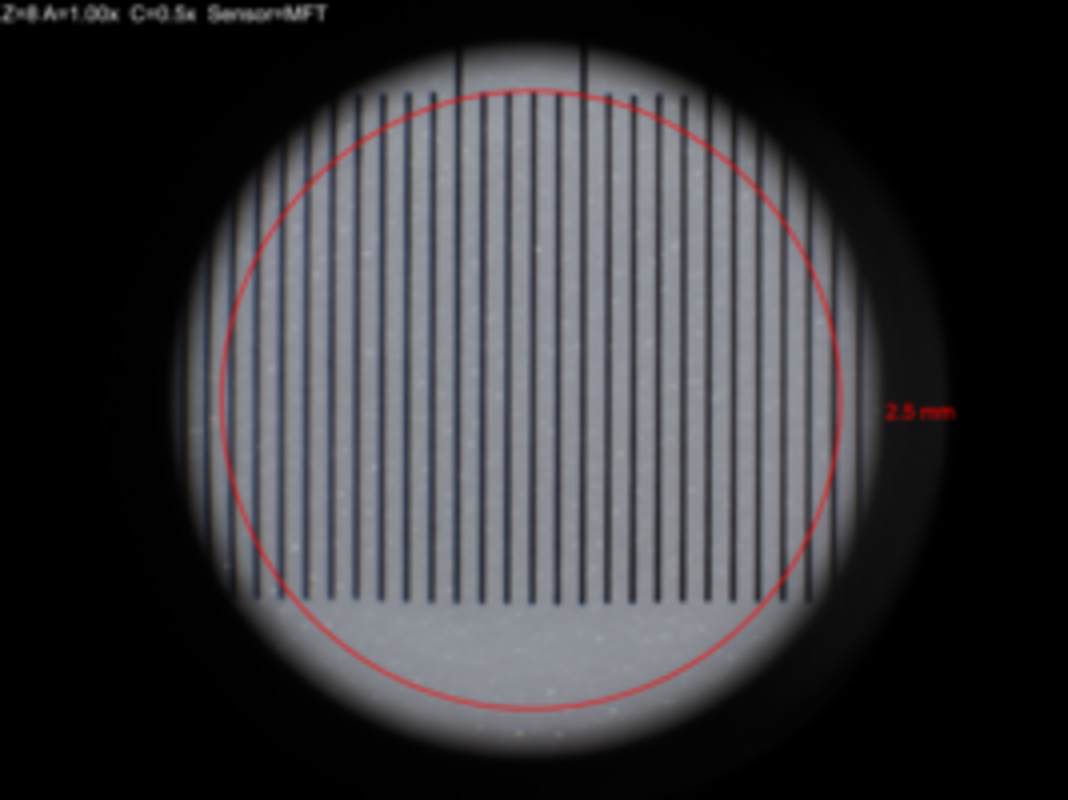
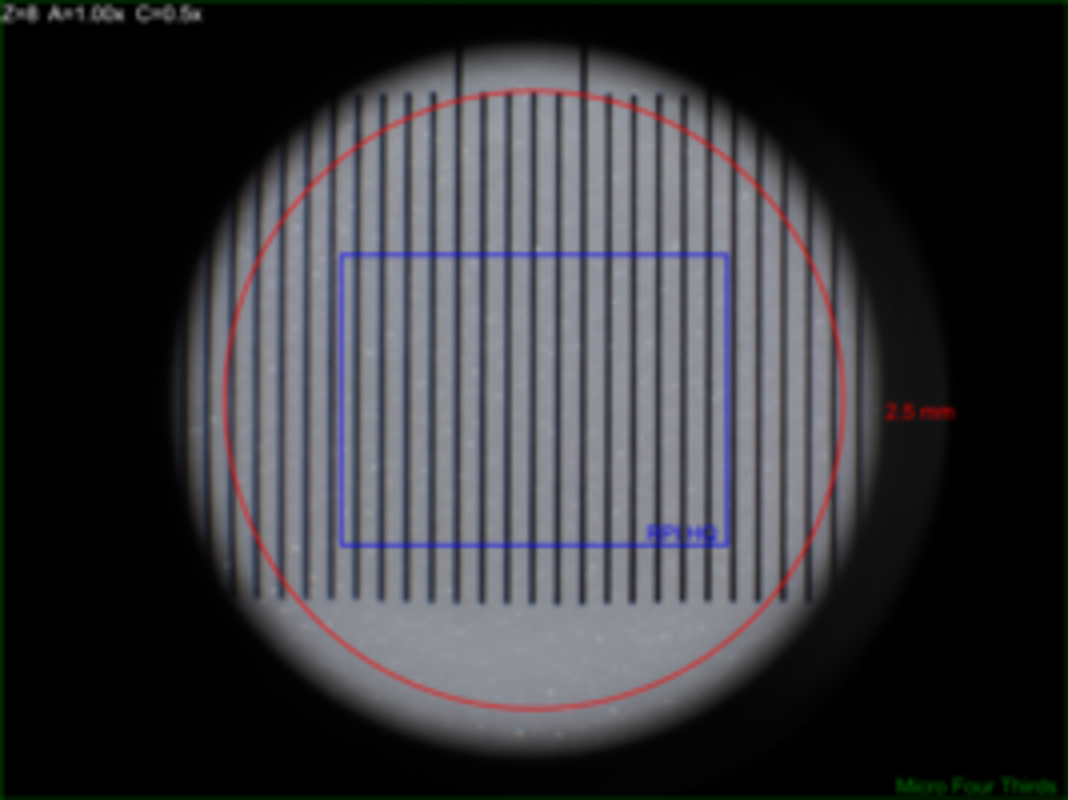
Added 0.32x pics

diff --git a/docs/leicaS8apo.html b/docs/leicaS8apo.html
@@ -3,7 +3,7 @@
 "http://www.w3.org/TR/xhtml1/DTD/xhtml1-strict.dtd">
 <html xmlns="http://www.w3.org/1999/xhtml" lang="en" xml:lang="en">
 <head>
-<!-- 2021-11-02 Tue 17:12 -->
+<!-- 2021-11-05 Fri 16:19 -->
 <meta http-equiv="Content-Type" content="text/html;charset=utf-8" />
 <meta name="viewport" content="width=1024, initial-scale=1" />
 <title>Leica S4E &amp; S8APO</title>
@@ -252,7 +252,7 @@
 
 <tr>
 <td class="org-right"><b>Updated:</b></td>
-<td class="org-left"><i>2021-11-02</i></td>
+<td class="org-left"><i>2021-11-05</i></td>
 </tr>
 </tbody>
 </table>
@@ -264,7 +264,7 @@ Copyright 2021 Mitch Richling. All rights reserved.
 <h2>Table of Contents</h2>
 <div id="text-table-of-contents">
 <ul>
-<li><a href="#orga7c4a99">1. Symbols &amp; Formulas</a>
+<li><a href="#org82813df">1. Symbols &amp; Formulas</a>
 <ul>
 <li><a href="#variables">1.1. Variables</a></li>
 <li><a href="#formulas">1.2. Formulas</a></li>
@@ -282,34 +282,34 @@ Copyright 2021 Mitch Richling. All rights reserved.
 <li><a href="#s8-ret-scale">3.2. Reticle Scale, Magnification, and FOV at Zoom Stops With 10x/23 Eyepiece</a></li>
 <li><a href="#s8-na">3.3. Numerical Aperture With No Auxiliary Lens</a></li>
 <li><a href="#leica-vid-obj">3.4. Leica C-Mount Video Objective Data</a></li>
-<li><a href="#org7e4e1fa">3.5. Attaching Cameras</a></li>
+<li><a href="#orgee62f42">3.5. Attaching Cameras</a></li>
 <li><a href="#s8-cam-data">3.6. Camera FOV &amp; Image Scales</a></li>
 </ul>
 </li>
 <li><a href="#mrconv">4. Reticle Unit Conversion Software For free42 and DM42</a>
 <ul>
-<li><a href="#org6c911d7">4.1. The menu</a></li>
-<li><a href="#org0fc00ed">4.2. The code</a></li>
+<li><a href="#org1a77cc6">4.1. The menu</a></li>
+<li><a href="#orgc2e4a5a">4.2. The code</a></li>
 </ul>
 </li>
 <li><a href="#parts">5. S-Series Leica Parts</a></li>
 <li><a href="#sensors">6. Image Sensor Data</a></li>
 <li><a href="#rpi-camera">7. DIY RPI Camera</a>
 <ul>
-<li><a href="#org9011fb5">7.1. The Idea</a></li>
-<li><a href="#org951bcc2">7.2. Bill Of Materials</a></li>
-<li><a href="#org45bf3de">7.3. System Setup</a></li>
-<li><a href="#org0eaa647">7.4. Camera Data Sync</a></li>
-<li><a href="#org7635e51">7.5. RPI Image Capture Script</a></li>
+<li><a href="#org0b2b4ec">7.1. The Idea</a></li>
+<li><a href="#org16b0c4e">7.2. Bill Of Materials</a></li>
+<li><a href="#org34594d3">7.3. System Setup</a></li>
+<li><a href="#orge504f3c">7.4. Camera Data Sync</a></li>
+<li><a href="#org8f5cbb0">7.5. RPI Image Capture Script</a></li>
 <li><a href="#rpi-imagej">7.6. ImageJ/Fiji Software</a>
 <ul>
-<li><a href="#org32228e8">7.6.1. Macro</a></li>
-<li><a href="#org0df1326">7.6.2. Macro Installer</a></li>
+<li><a href="#orgadc7b6d">7.6.1. Macro</a></li>
+<li><a href="#org2670a09">7.6.2. Macro Installer</a></li>
 </ul>
 </li>
 </ul>
 </li>
-<li><a href="#org190e6e4">8. EOF</a></li>
+<li><a href="#org50618c1">8. EOF</a></li>
 </ul>
 </div>
 </div>
@@ -318,8 +318,8 @@ Copyright 2021 Mitch Richling. All rights reserved.
 Check out my home page for more stuff: <a href="https://www.mitchr.me/">https://www.mitchr.me/</a>
 </p>
 
-<div id="outline-container-orga7c4a99" class="outline-2">
-<h2 id="orga7c4a99"><span class="section-number-2">1.</span> Symbols &amp; Formulas</h2>
+<div id="outline-container-org82813df" class="outline-2">
+<h2 id="org82813df"><span class="section-number-2">1.</span> Symbols &amp; Formulas</h2>
 <div class="outline-text-2" id="text-1">
 </div>
 <div id="outline-container-variables" class="outline-3">
@@ -1237,7 +1237,11 @@ Check out my home page for more stuff: <a href="https://www.mitchr.me/">https://
 
 <p>
 Note the image circles are all the same size on the image sensor for a particular video objective, but FOV will change with the Auxiliary &amp; video objective.
-Some examples:
+</p>
+
+<p>
+With \(O_d=0.5x\) we can capture the full image circle with a Micro Four Thirds (Olympus OM-D E-M1 Mark II) sensor, but only about 37% of the image circle with
+an IMX477 (RPI HQ) sensor.
 </p>
 
 <table border="2 solid #ccc" cellspacing="0" cellpadding="6" rules="groups" frame="all" align="center">
@@ -1270,11 +1274,47 @@ Some examples:
 </tr>
 </tbody>
 </table>
+
+<p>
+With \(O_d=0.32x\) the image circle shrinks, and now we can capture about 76% of the image circle with an IMX477 (RPI HQ); however, about 3% percent of the sensor
+is outside the image circle &#x2013; i.e. wasted sensor pixels.
+</p>
+
+<table border="2 solid #ccc" cellspacing="0" cellpadding="6" rules="groups" frame="all" align="center">
+<caption class="t-above"><span class="table-number">Table 9:</span> Image Circles with \(O_d=0.32x\)</caption>
+
+<colgroup>
+<col  class="org-left" />
+
+<col  class="org-left" />
+
+<col  class="org-left" />
+</colgroup>
+<tbody>
+<tr>
+<td class="org-left">&#xa0;</td>
+<td class="org-left">\(Z=1\)</td>
+<td class="org-left">\(Z=8\)</td>
+</tr>
+
+<tr>
+<td class="org-left">\(A=0.63\)</td>
+<td class="org-left"><a href="10445928-10446335-z1_800.png"><img src="10445928-10446335-z1_200.png" alt="10445928-10446335-z1_200.png" /></a></td>
+<td class="org-left"><a href="10445928-10446335-z8_800.png"><img src="10445928-10446335-z8_200.png" alt="10445928-10446335-z8_200.png" /></a></td>
+</tr>
+
+<tr>
+<td class="org-left">\(A=1.00\)</td>
+<td class="org-left"><a href="10445928-NONE-z1_800.png"><img src="10445928-NONE-z1_200.png" alt="10445928-NONE-z1_200.png" /></a></td>
+<td class="org-left"><a href="10445928-NONE-z8_800.png"><img src="10445928-NONE-z8_200.png" alt="10445928-NONE-z8_200.png" /></a></td>
+</tr>
+</tbody>
+</table>
 </div>
 </div>
 
-<div id="outline-container-org7e4e1fa" class="outline-3">
-<h3 id="org7e4e1fa"><span class="section-number-3">3.5.</span> Attaching Cameras</h3>
+<div id="outline-container-orgee62f42" class="outline-3">
+<h3 id="orgee62f42"><span class="section-number-3">3.5.</span> Attaching Cameras</h3>
 <div class="outline-text-3" id="text-3-5">
 <p>
 The Leica documentation suggests using a chain of adapters for attaching a generic digital camera. The first part of the chain is one of the following three
@@ -1310,7 +1350,7 @@ I use two cameras with my S8APO:
 <h3 id="s8-cam-data"><span class="section-number-3">3.6.</span> Camera FOV &amp; Image Scales</h3>
 <div class="outline-text-3" id="text-s8-cam-data">
 <table border="2 solid #ccc" cellspacing="0" cellpadding="6" rules="groups" frame="hsides" align="center">
-<caption class="t-above"><span class="table-number">Table 9:</span> Camera FOV &amp; Image Scales</caption>
+<caption class="t-above"><span class="table-number">Table 10:</span> Camera FOV &amp; Image Scales</caption>
 
 <colgroup>
 <col  class="org-right" />
@@ -1505,11 +1545,11 @@ I use two cameras with my S8APO:
 <div class="outline-text-2" id="text-mrconv">
 </div>
 
-<div id="outline-container-org6c911d7" class="outline-3">
-<h3 id="org6c911d7"><span class="section-number-3">4.1.</span> The menu</h3>
+<div id="outline-container-org1a77cc6" class="outline-3">
+<h3 id="org1a77cc6"><span class="section-number-3">4.1.</span> The menu</h3>
 <div class="outline-text-3" id="text-4-1">
 <table border="2 solid #ccc" cellspacing="0" cellpadding="6" rules="groups" frame="hsides" align="center">
-<caption class="t-above"><span class="table-number">Table 10:</span> Application Menu</caption>
+<caption class="t-above"><span class="table-number">Table 11:</span> Application Menu</caption>
 
 <colgroup>
 <col  class="org-left" />
@@ -1628,8 +1668,8 @@ keys each with two sets of settings &#x2013; the scope's lower zoom stop is used
 </div>
 </div>
 
-<div id="outline-container-org0fc00ed" class="outline-3">
-<h3 id="org0fc00ed"><span class="section-number-3">4.2.</span> The code</h3>
+<div id="outline-container-orgc2e4a5a" class="outline-3">
+<h3 id="orgc2e4a5a"><span class="section-number-3">4.2.</span> The code</h3>
 <div class="outline-text-3" id="text-4-2">
 <p>
 While this code isn't very useful without being customized to the particular settings the end user needs, it can be test driven as-is by cut-n-pasting the
@@ -1788,7 +1828,7 @@ END
 <h2 id="parts"><span class="section-number-2">5.</span> S-Series Leica Parts</h2>
 <div class="outline-text-2" id="text-parts">
 <table border="2 solid #ccc" cellspacing="0" cellpadding="6" rules="groups" frame="hsides" align="center">
-<caption class="t-above"><span class="table-number">Table 11:</span> S-Series Leica Parts</caption>
+<caption class="t-above"><span class="table-number">Table 12:</span> S-Series Leica Parts</caption>
 
 <colgroup>
 <col  class="org-right" />
@@ -1993,8 +2033,8 @@ END
 <div id="outline-container-sensors" class="outline-2">
 <h2 id="sensors"><span class="section-number-2">6.</span> Image Sensor Data</h2>
 <div class="outline-text-2" id="text-sensors">
-<table id="org7cdc947" border="2 solid #ccc" cellspacing="0" cellpadding="6" rules="groups" frame="hsides" align="center">
-<caption class="t-above"><span class="table-number">Table 12:</span> Image Sensor Data</caption>
+<table id="org1176aff" border="2 solid #ccc" cellspacing="0" cellpadding="6" rules="groups" frame="hsides" align="center">
+<caption class="t-above"><span class="table-number">Table 13:</span> Image Sensor Data</caption>
 
 <colgroup>
 <col  class="org-left" />
@@ -2296,29 +2336,29 @@ END
 <h2 id="rpi-camera"><span class="section-number-2">7.</span> DIY RPI Camera</h2>
 <div class="outline-text-2" id="text-rpi-camera">
 
-<div id="org8a142bd" class="figure">
+<div id="org187661a" class="figure">
 <p><img src="rpicam1_800.jpg" alt="rpicam1_800.jpg" border="2 solid #ccc" frame="hsides" align="center" />
 </p>
 <p><span class="figure-number">Figure 1: </span>A live feed from the microscope with a glass scale on the stage.</p>
 </div>
 
 
-<div id="org4be55e7" class="figure">
+<div id="org6f3013f" class="figure">
 <p><img src="rpicam2_800.jpg" alt="rpicam2_800.jpg" border="2 solid #ccc" frame="hsides" align="center" />
 </p>
 <p><span class="figure-number">Figure 2: </span>A good view of the wire management for the camera.</p>
 </div>
 
 
-<div id="org5a98f2b" class="figure">
+<div id="orgcd84a10" class="figure">
 <p><img src="rpicam4_800.jpg" alt="rpicam4_800.jpg" border="2 solid #ccc" frame="hsides" align="center" />
 </p>
 <p><span class="figure-number">Figure 3: </span>A 30fps live feed illuminated only by my desk lamps.  This is an exceptionally bright microscope.</p>
 </div>
 </div>
 
-<div id="outline-container-org9011fb5" class="outline-3">
-<h3 id="org9011fb5"><span class="section-number-3">7.1.</span> The Idea</h3>
+<div id="outline-container-org0b2b4ec" class="outline-3">
+<h3 id="org0b2b4ec"><span class="section-number-3">7.1.</span> The Idea</h3>
 <div class="outline-text-3" id="text-7-1">
 <p>
 Microscope cameras with built in image analysis software are pretty cool.  Simply connect the camera to your monitor &amp; mouse, and you can do simple image
@@ -2329,11 +2369,11 @@ image analysis software (Fiji/ImageJ) right on the camera.
 </div>
 </div>
 
-<div id="outline-container-org951bcc2" class="outline-3">
-<h3 id="org951bcc2"><span class="section-number-3">7.2.</span> Bill Of Materials</h3>
+<div id="outline-container-org16b0c4e" class="outline-3">
+<h3 id="org16b0c4e"><span class="section-number-3">7.2.</span> Bill Of Materials</h3>
 <div class="outline-text-3" id="text-7-2">
 <table border="2 solid #ccc" cellspacing="0" cellpadding="6" rules="groups" frame="hsides" align="center">
-<caption class="t-above"><span class="table-number">Table 13:</span> Bill Of Materials</caption>
+<caption class="t-above"><span class="table-number">Table 14:</span> Bill Of Materials</caption>
 
 <colgroup>
 <col  class="org-left" />
@@ -2392,8 +2432,8 @@ image analysis software (Fiji/ImageJ) right on the camera.
 </div>
 </div>
 
-<div id="outline-container-org45bf3de" class="outline-3">
-<h3 id="org45bf3de"><span class="section-number-3">7.3.</span> System Setup</h3>
+<div id="outline-container-org34594d3" class="outline-3">
+<h3 id="org34594d3"><span class="section-number-3">7.3.</span> System Setup</h3>
 <div class="outline-text-3" id="text-7-3">
 <div class="org-src-container">
 <pre class="src src-sh"><span style="color: #ffa500;">#### </span><span style="color: #ff7f24;">Refresh packages and update everything</span>
@@ -2449,8 +2489,8 @@ ln -s piSnap.sh piSnap
 </div>
 </div>
 
-<div id="outline-container-org0eaa647" class="outline-3">
-<h3 id="org0eaa647"><span class="section-number-3">7.4.</span> Camera Data Sync</h3>
+<div id="outline-container-orge504f3c" class="outline-3">
+<h3 id="orge504f3c"><span class="section-number-3">7.4.</span> Camera Data Sync</h3>
 <div class="outline-text-3" id="text-7-4">
 <div class="org-src-container">
 <pre class="src src-sh">date; <span style="color: #b0c4de;">echo</span> back-dat-sync;        rsync -rlt --log-format=%f --delete --delete-excluded --modify-window=2                  --rsh=<span style="color: #fa8072;">'ssh'</span> pi-cam.home.mitchr.me:synced/pi-data/                            /c/Users/richmit/Documents/world/pi-cam/; date
@@ -2459,8 +2499,8 @@ ln -s piSnap.sh piSnap
 </div>
 </div>
 
-<div id="outline-container-org7635e51" class="outline-3">
-<h3 id="org7635e51"><span class="section-number-3">7.5.</span> RPI Image Capture Script</h3>
+<div id="outline-container-org8f5cbb0" class="outline-3">
+<h3 id="org8f5cbb0"><span class="section-number-3">7.5.</span> RPI Image Capture Script</h3>
 <div class="outline-text-3" id="text-7-5">
 <p>
 This scipr tis pretty simple.  Right now it only supports
@@ -2628,15 +2668,15 @@ $<span style="color: #7fffd4;">DACMD</span>
 <div class="outline-text-3" id="text-rpi-imagej">
 </div>
 
-<div id="outline-container-org32228e8" class="outline-4">
-<h4 id="org32228e8"><span class="section-number-4">7.6.1.</span> Macro</h4>
+<div id="outline-container-orgadc7b6d" class="outline-4">
+<h4 id="orgadc7b6d"><span class="section-number-4">7.6.1.</span> Macro</h4>
 <div class="outline-text-4" id="text-7-6-1">
 <p>
 The code below provides an ImageJ/Fiji toolset.  You activate the tool set via the toolset menu:
 </p>
 
 
-<div id="org9cf309d" class="figure">
+<div id="org07f33ed" class="figure">
 <p><img src="toolsetmenu_800.gif" alt="toolsetmenu_800.gif" align="center" />
 </p>
 </div>
@@ -2646,7 +2686,7 @@ Once activated, it will add three buttons to the toolbar:
 </p>
 
 
-<div id="org42d63d0" class="figure">
+<div id="org28744f3" class="figure">
 <p><img src="toolsetbuttons_800.gif" alt="toolsetbuttons_800.gif" align="center" />
 </p>
 </div>
@@ -2815,8 +2855,8 @@ macro <span style="color: #fa8072;">"Open Last RPI Capture(s) Action Tool - Cc11
 </div>
 </div>
 
-<div id="outline-container-org0df1326" class="outline-4">
-<h4 id="org0df1326"><span class="section-number-4">7.6.2.</span> Macro Installer</h4>
+<div id="outline-container-org2670a09" class="outline-4">
+<h4 id="org2670a09"><span class="section-number-4">7.6.2.</span> Macro Installer</h4>
 <div class="outline-text-4" id="text-7-6-2">
 <p>
 I use Fiji on Windows &amp; <a href="#rpi-camera">DIY RPI Camera</a>.  On Windows I install it under a folder named "<code>PF/Fiji.app</code>" &#x2013; I install various packages in "<code>PF</code>"
@@ -2891,8 +2931,8 @@ cp <span style="color: #fa8072;">"$TOOL_TO_INSTALL"</span> <span style="color: #
 </div>
 </div>
 
-<div id="outline-container-org190e6e4" class="outline-2">
-<h2 id="org190e6e4"><span class="section-number-2">8.</span> EOF</h2>
+<div id="outline-container-org50618c1" class="outline-2">
+<h2 id="org50618c1"><span class="section-number-2">8.</span> EOF</h2>
 <div class="outline-text-2" id="text-8">
 <br /> <br /> <br /> <br /> <br /> <br /> <br /> <br /> <br /> <br /> <br /> <br /> <br /> <br /> <br /> <br /> <br /> <br /> <br />
 <br /> <br /> <br /> <br /> <br /> <br /> <br /> <br /> <br /> <br /> <br /> <br /> <br /> <br /> <br /> <br /> <br /> <br /> <br />
@@ -2903,7 +2943,7 @@ cp <span style="color: #fa8072;">"$TOOL_TO_INSTALL"</span> <span style="color: #
 </div>
 </div>
 <div id="postamble" class="status">
-Created by Mitch Richling <<a href="mailto:http://www.mitchr.me/">http://www.mitchr.me/</a>>.  Rendered on 2021-11-02 Tue 17:12 via <a href="https://www.gnu.org/software/emacs/">Emacs</a> 27.2 (<a href="https://orgmode.org">Org</a> mode 9.4.6)
+Created by Mitch Richling <<a href="mailto:http://www.mitchr.me/">http://www.mitchr.me/</a>>.  Rendered on 2021-11-05 Fri 16:19 via <a href="https://www.gnu.org/software/emacs/">Emacs</a> 27.2 (<a href="https://orgmode.org">Org</a> mode 9.4.6)
 </div>
 </body>
 </html>
